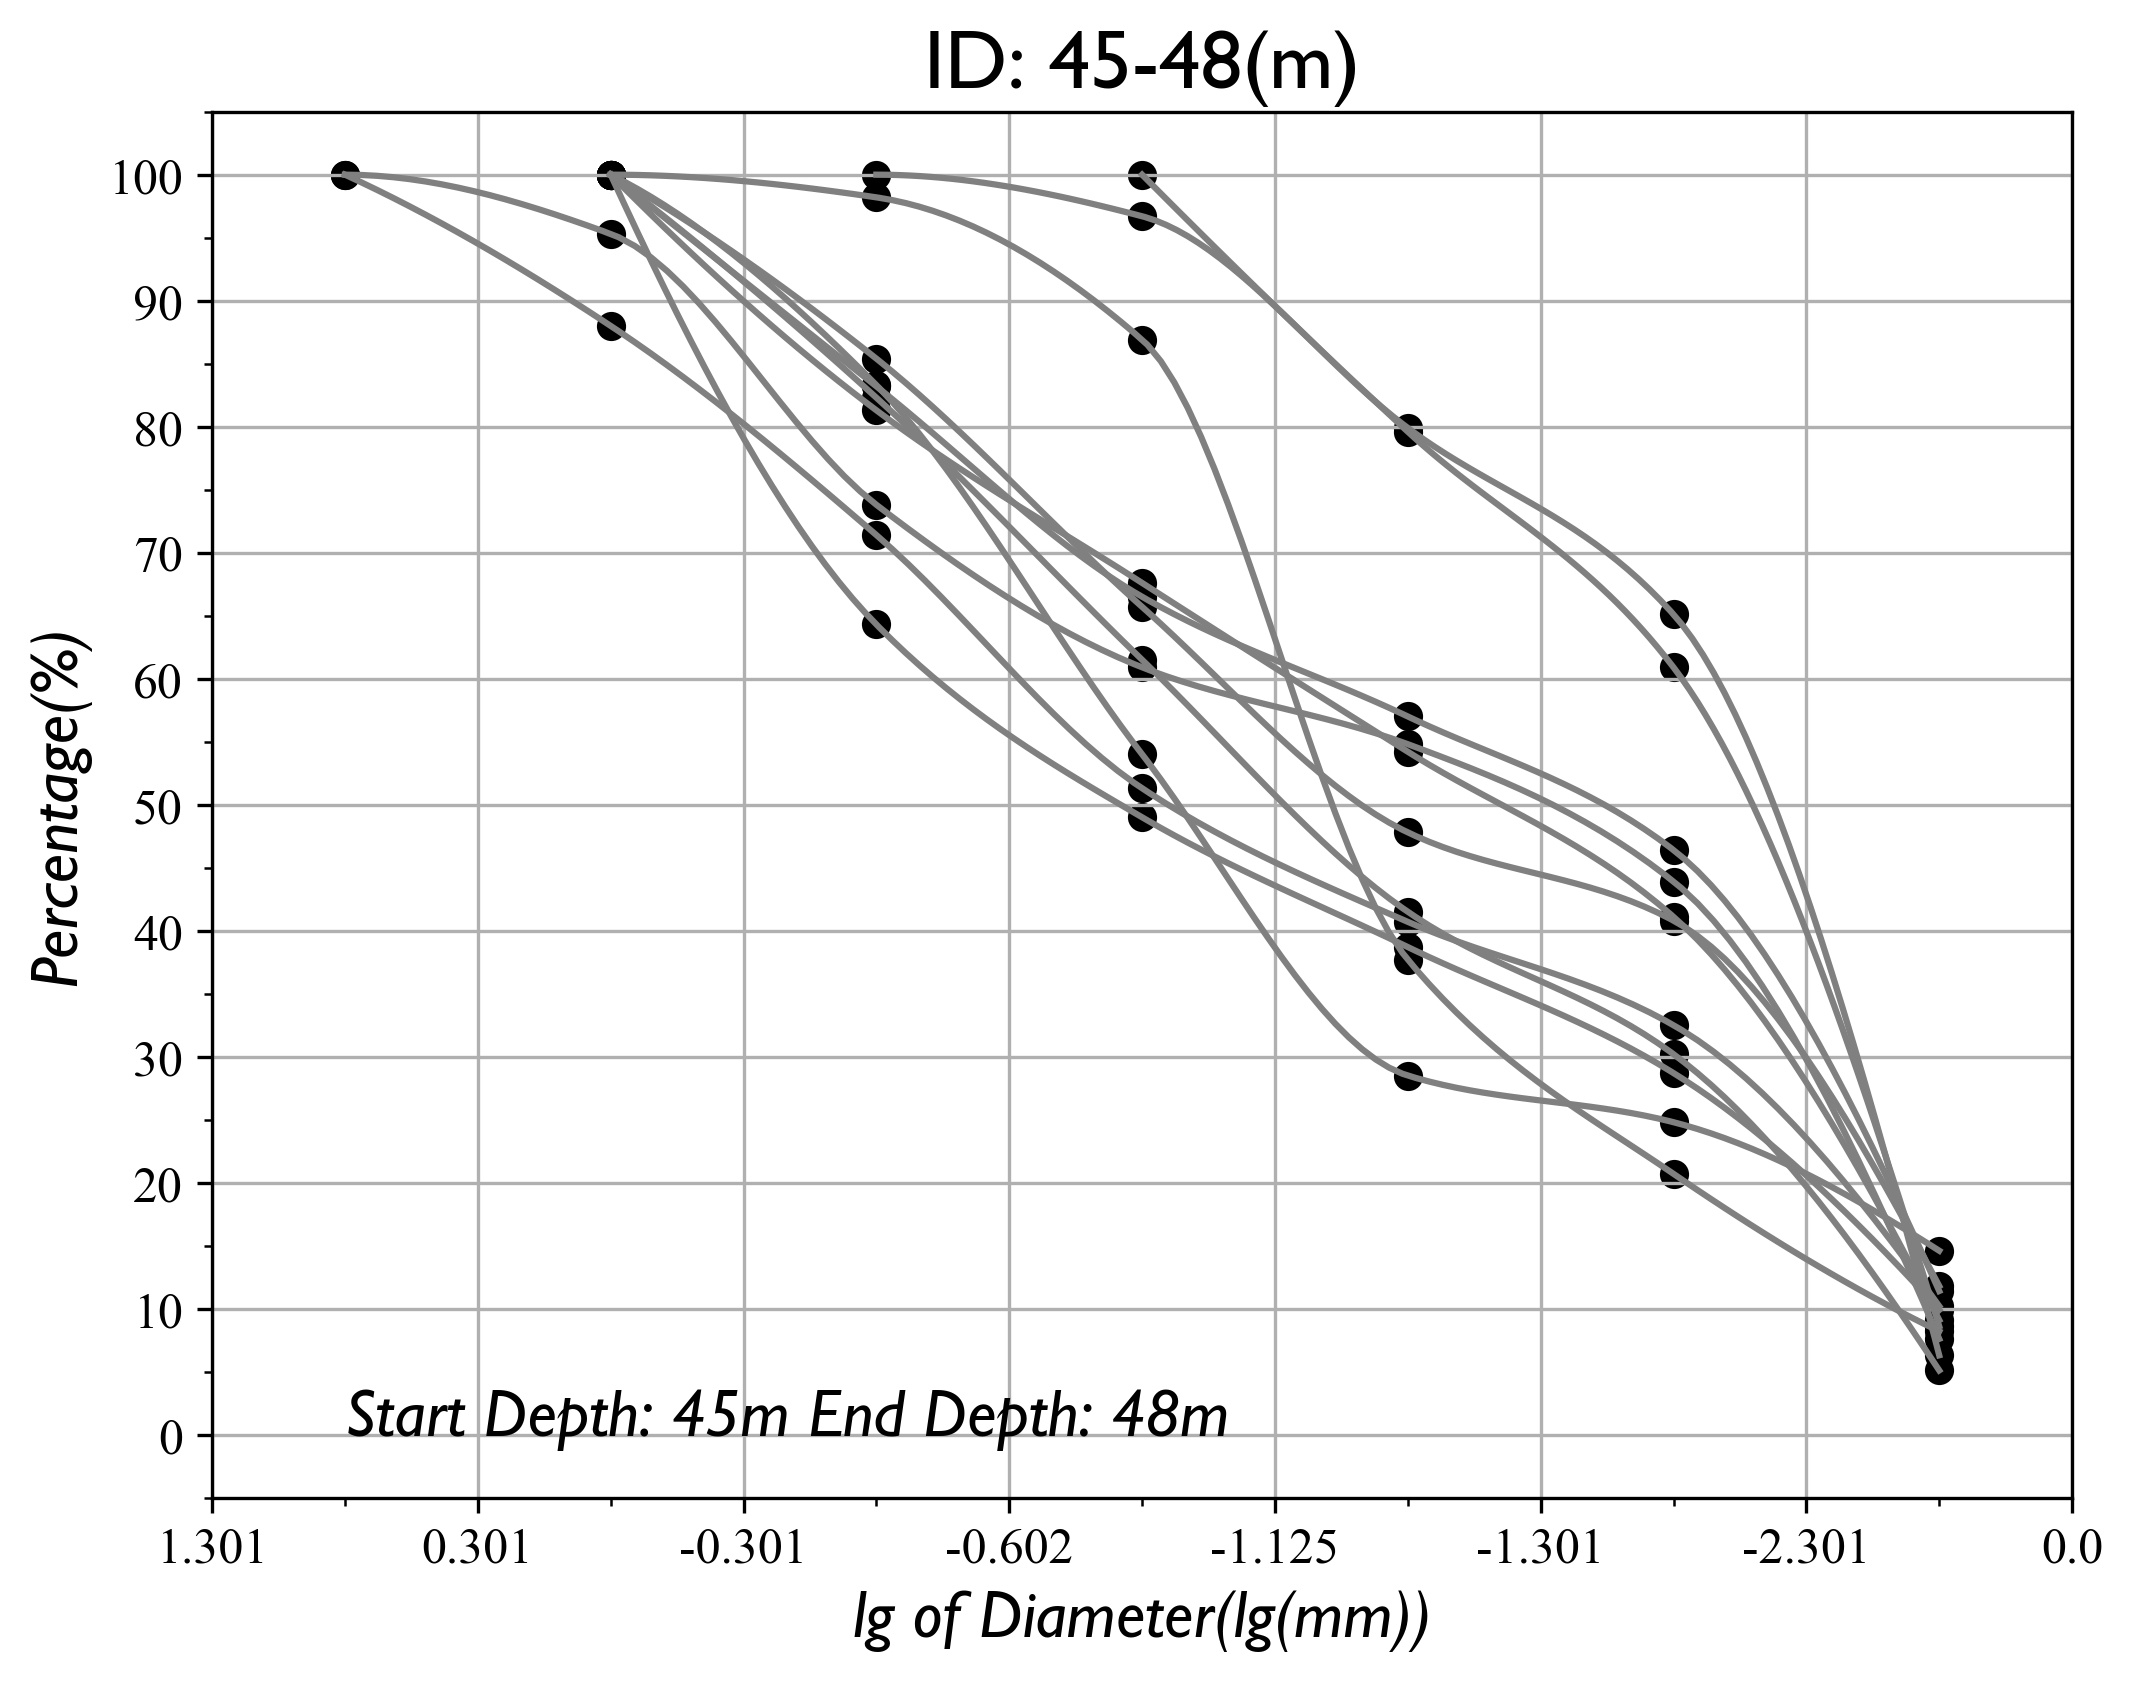
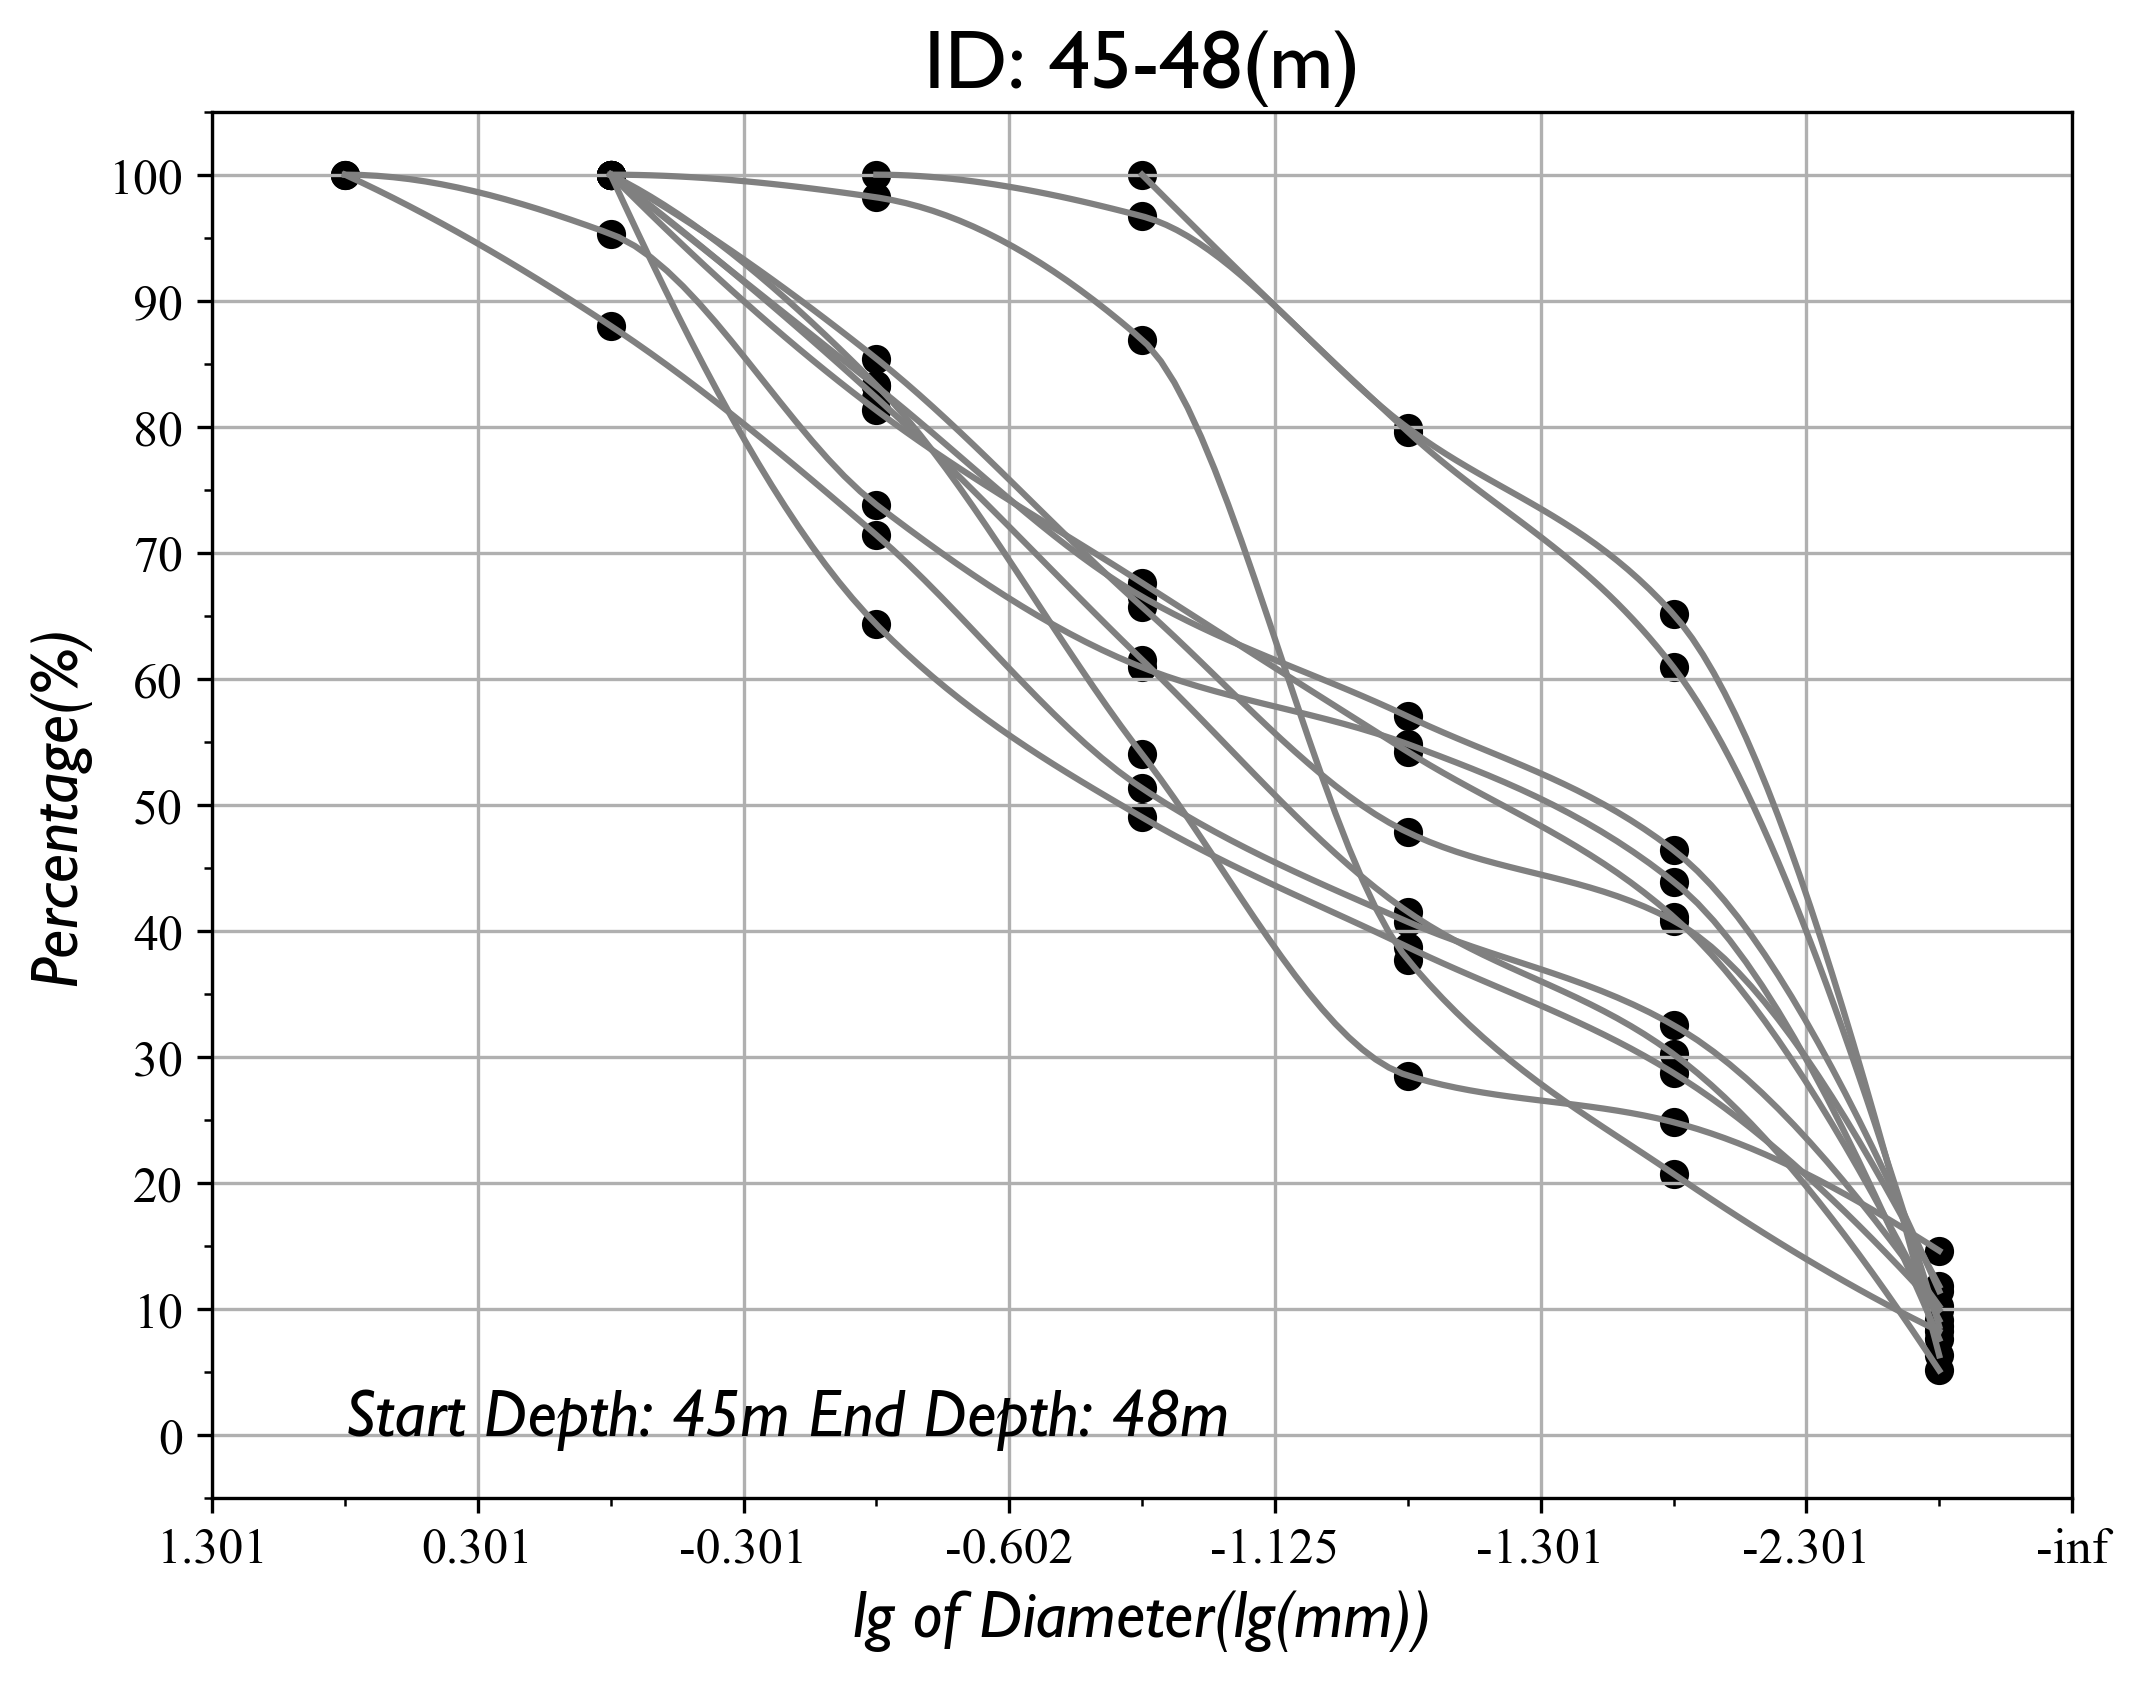
GN

diff --git a/Object/o_data.py b/Object/o_data.py
@@ -570,7 +570,7 @@ class data:
         list_index_separation=[]
         
         #diameter list in lg form
-        self.list_diameter_lg=[np.round(np.log10(item),3) for item in self.list_diameter[:-1]]+[0.00]
+        self.list_diameter_lg=[np.round(np.log10(item),3) for item in self.list_diameter]
         
         for this_data in self.list_data:
             
@@ -644,7 +644,7 @@ class data:
         plt.ylim([0-y_minor_step,100+y_minor_step])
             
         #add depth
-        plt.text(x_alias[index_separation-1],0,
+        plt.text(x_alias[np.min(list_index_separation)-1],0,
                  'Start Depth: '+str(self.start_depth)+'m End Depth: '+str(self.end_depth)+'m',
                  FontProperties=annotation_font)
         

diff --git a/Module/statistics_diameter_curve.py b/Module/statistics_diameter_curve.py
@@ -355,6 +355,7 @@ def WorkbookDiameter(xls_path,num_head_rows,num_head_columns):
             this_range_hole.DiameterCurve(output_folder+this_sheet_name+'\孔划分\\')
             this_range_hole.DiameterCurveBatch(output_folder+this_sheet_name+'\孔划分集合\\')  
             
+#    #for testing
 #    list_layer[0].DiameterCurve(output_folder+this_sheet_name+'\层\\')
 #    list_hole[0].DiameterCurve(output_folder+this_sheet_name+'\孔\\')
 #        
